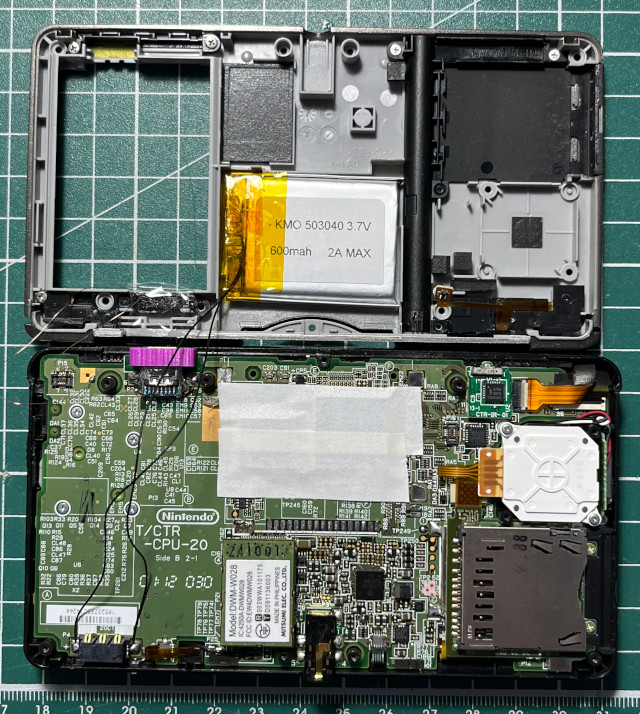
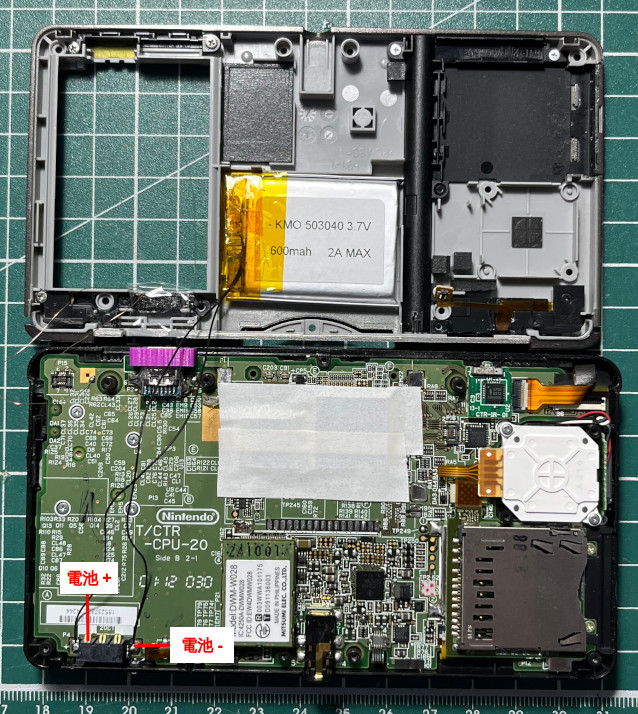
3DS Refined.

diff --git a/handheld/3ds/mod.htm b/handheld/3ds/mod.htm
@@ -64,7 +64,8 @@
 <img src="mod/3.jpg" class="maxSize"><br><br>
 
 電池使用503040 600mA、充電接頭改成USB Type-C<br>
-<img src="mod/4.jpg" class="maxSize"><br><br>
+<img src="mod/4.jpg" class="maxSize"><br>
+P.S. <b>電池+</b>要接到原本的電池座，這張圖後來忘記更新～<br><br>
 
 OpenSCAD<br>
 <img src="mod/5.jpg" class="maxSize"><br>
